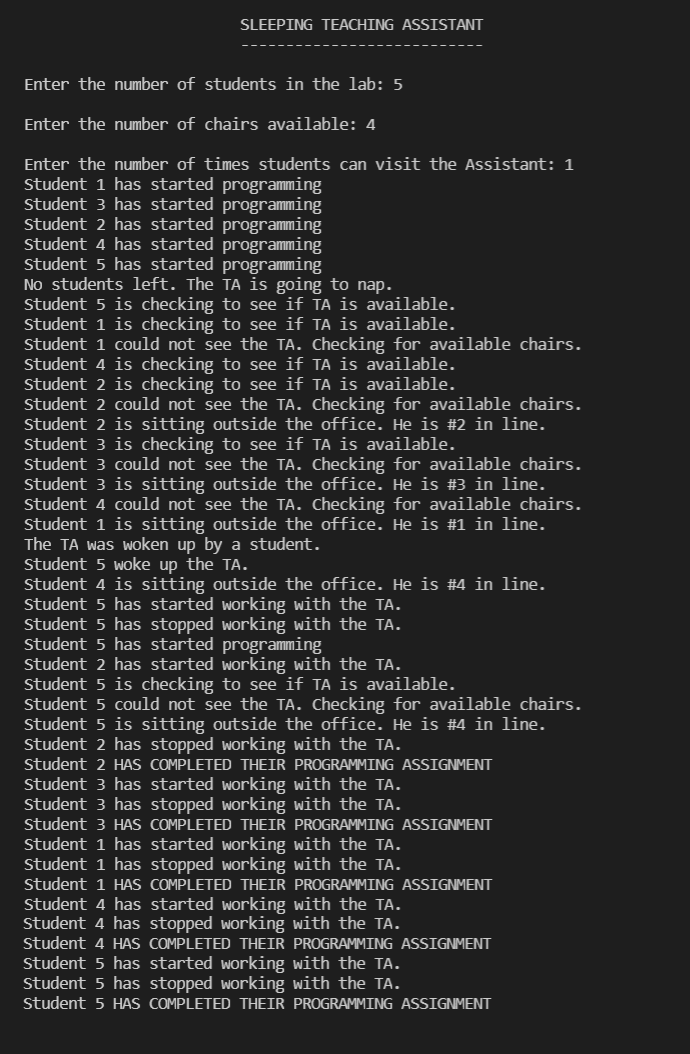
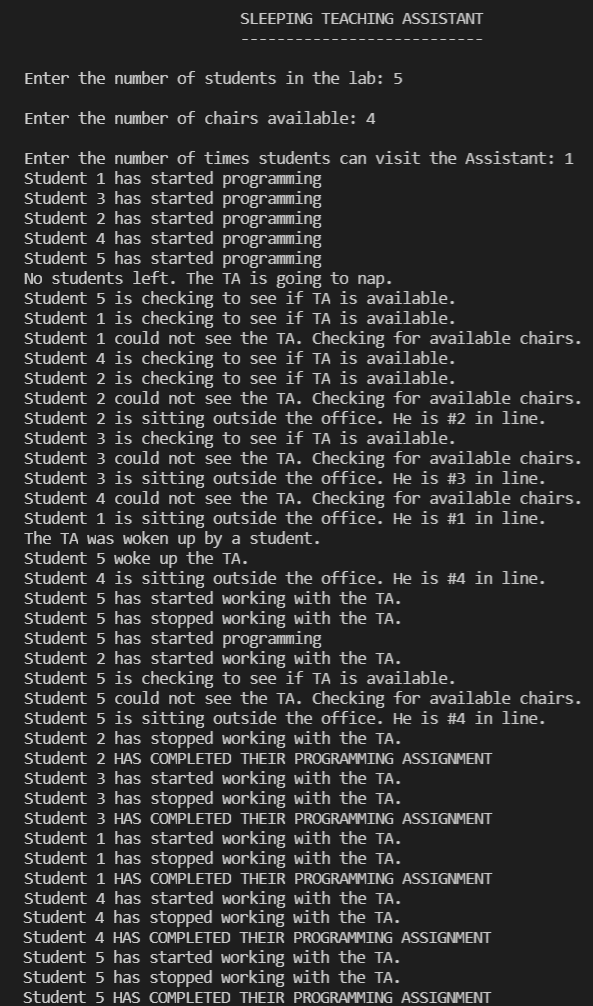
image resized

diff --git a/SleepingTeachingAssistant/src/Student.java b/SleepingTeachingAssistant/src/Student.java
@@ -12,7 +12,7 @@ class Student implements Runnable
 	// A reference to the current thread.
 	//private Thread t;
 	// Non-default constructor.
-	public Student(int program, SignalSemaphore w, Semaphore c, Semaphore a, int num)
+	public Student(SignalSemaphore w, Semaphore c, Semaphore a, int num)
 	{
 		wakeup = w;
 		chairs = c;
@@ -20,7 +20,6 @@ class Student implements Runnable
 		studentNum = num;
 		//t = Thread.currentThread(); //returns a reference to the currently executing thread object.
 	}
-	@Override 
 	public void run()
 	{
 		int i=0;
@@ -44,10 +43,10 @@ class Student implements Runnable
 						System.out.println("Student " + studentNum + " has started working with the TA.");
 						Thread.sleep(100);
 						System.out.println("Student " + studentNum + " has stopped working with the TA.");
+						i++;
 					}
 					catch (InterruptedException e)
 					{
-						// Something bad happened.
 						continue;
 					}
 					finally

diff --git a/SleepingTeachingAssistant/src/TeachingAssistant.java b/SleepingTeachingAssistant/src/TeachingAssistant.java
@@ -12,7 +12,6 @@ public class TeachingAssistant implements Runnable
 		wakeup = w;
 		chairs = c;
 	}
-	@Override
 	public void run()
 	{
 		for(int i=0;i<SleepingTA.TA_visit;i++)
@@ -22,13 +21,13 @@ public class TeachingAssistant implements Runnable
 				System.out.println("No students left. The TA is going to nap.");
 				wakeup.release();
 				System.out.println("The TA was woken up by a student.");
-				Thread.sleep(100);
+				Thread.sleep(1);
 				// If there are other students waiting.
 				if (chairs.availablePermits() != SleepingTA.chair)
 				{
 					do
 					{
-						Thread.sleep(100);
+						Thread.sleep(1);
 						chairs.release();
 					}
 					while (chairs.availablePermits() != SleepingTA.chair);

diff --git a/SleepingTeachingAssistant/src/SleepingTA.java b/SleepingTeachingAssistant/src/SleepingTA.java
@@ -23,13 +23,10 @@ public class SleepingTA
 		Semaphore chairs = new Semaphore(chair);
 		Semaphore available = new Semaphore(1);
 
-		// Used for randomly generating program time.
-		Random studentWait = new Random();
-
 		// Create student threads and start them.
 		for (int i = 0; i < numberofStudents; i++)
 		{
-			Thread student = new Thread(new Student(studentWait.nextInt(20), wakeup,chairs, available, i+1));
+			Thread student = new Thread(new Student(wakeup,chairs, available, i+1));
 			student.start();
 		}
 		
